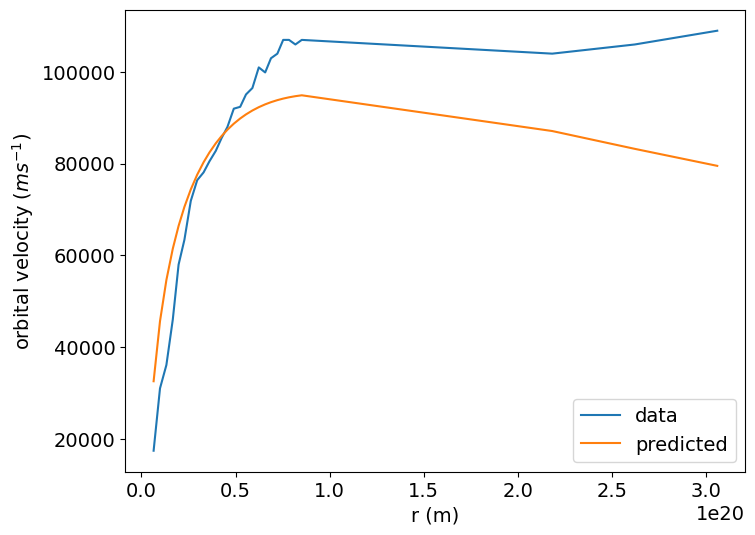
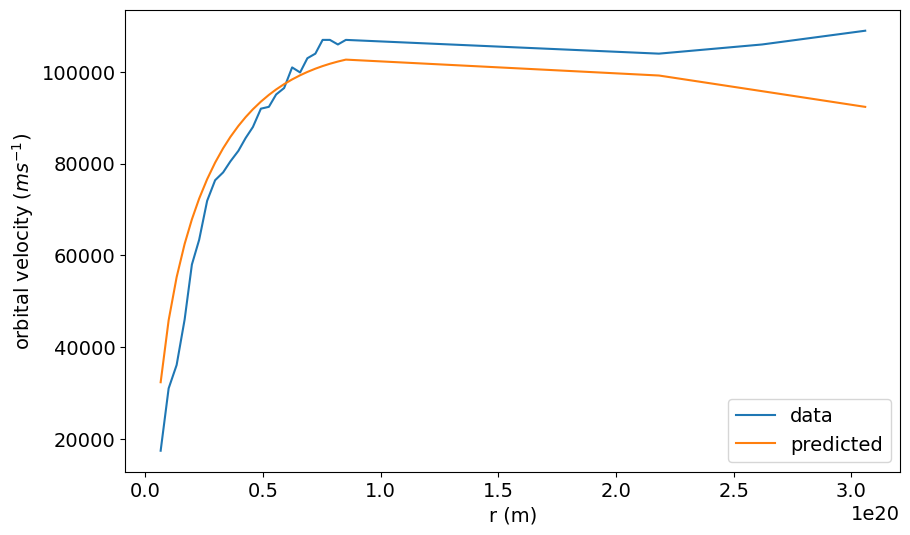
plot residuals wrt each x component

diff --git a/grid_search_util.py b/grid_search_util.py
@@ -12,7 +12,7 @@ from util import *
 from matplotlib import cm
 plt.rcParams.update({'font.size': 10})
 
-def plot_grid_results(res_grid, x0_vals, x1_vals, x2_vals):
+def plot_grid_results(res_grid, x0_vals, x1_vals, x2_vals, best_loc):
 
     res_grid[np.where(np.isnan(res_grid))] = np.max(res_grid)
     X0, X1, X2 = np.meshgrid(x0_vals, x1_vals, x2_vals)
@@ -31,9 +31,28 @@ def plot_grid_results(res_grid, x0_vals, x1_vals, x2_vals):
     ax.set_ylabel('x1')
     ax.set_zlabel('x2')
     ax.view_init(azim=-30, elev=20)
-
-
     fig.savefig("plots/residual_grid")
+
+    #import pdb; pdb.set_trace()
+    upper_bound = np.ones(res_grid.shape[0]) * 10**2 * np.min(res_grid)
+    plt.clf()
+    fig = plt.figure(figsize=(10, 6))
+    plt.subplot(131)
+    plt.plot(x0_vals, np.minimum(res_grid[:,best_loc[1], best_loc[2]], upper_bound))
+    plt.xlabel("x0"); plt.ylabel("residual")
+    plt.yscale("log")
+
+    plt.subplot(132)
+    plt.plot(x1_vals, np.minimum(res_grid[best_loc[0], :, best_loc[2]], upper_bound))
+    plt.xlabel("x1"); plt.ylabel("residual")
+    plt.yscale("log")
+
+    plt.subplot(133)
+    plt.plot(x2_vals, np.minimum(res_grid[best_loc[0], best_loc[1], :], upper_bound))
+    plt.xlabel("x2"); plt.ylabel("residual")
+    plt.yscale("log")
+
+    plt.savefig("res_vary_x.png")
     return
 
 def grid_search(grid_ranges, galaxy_dict):
@@ -63,11 +82,11 @@ def grid_search(grid_ranges, galaxy_dict):
     print(f"Lowest residual from grid search {np.min(res_grid)}")
     residual_norm, jacobian, hessian, phi, s, v_calc = get_grad_concrete(r, v, n, best_x)
 
-    plot_grid_results(res_grid, x0_vals, x1_vals, x2_vals)
+    plot_grid_results(res_grid, x0_vals, x1_vals, x2_vals, best_loc)
     plot_velocities(r, v, v_calc, "grid_search")
     plot_s(r, best_x, "grid_search")
 
-    #import pdb; pdb.set_trace()
+    import pdb; pdb.set_trace()
     return best_x
 
 

diff --git a/solve_for_s.py b/solve_for_s.py
@@ -12,7 +12,7 @@ from util import *
 from newton_util import *
 from grid_search_util import *
 
-plt.rcParams.update({'font.size': 16})
+plt.rcParams.update({'font.size': 14})
 
 def get_s(galaxy_dict):
 
@@ -25,11 +25,11 @@ def get_s(galaxy_dict):
     #                 "x1": [1.5, 2],
     #                 "x2": [1, 1.5]}
 
-    plot_v2r(r = galaxy_dict["r"], v_data = galaxy_dict["v"], plot_name ="1")
-    import pdb; pdb.set_trace()
+    #plot_v2r(r = galaxy_dict["r"], v_data = galaxy_dict["v"], plot_name ="1")
+
     grid_ranges = {"x0": [2.5, 2.7],
-                    "x1": [1.5, 1.6],
-                    "x2": [1.7, 1.8]}
+                    "x1": [1.5, 1.55],
+                    "x2": [1.7, 1.79]}
     #
     # grid_ranges = {"x0": [0.5, 2],
     #                 "x1": [0.5, 2],
